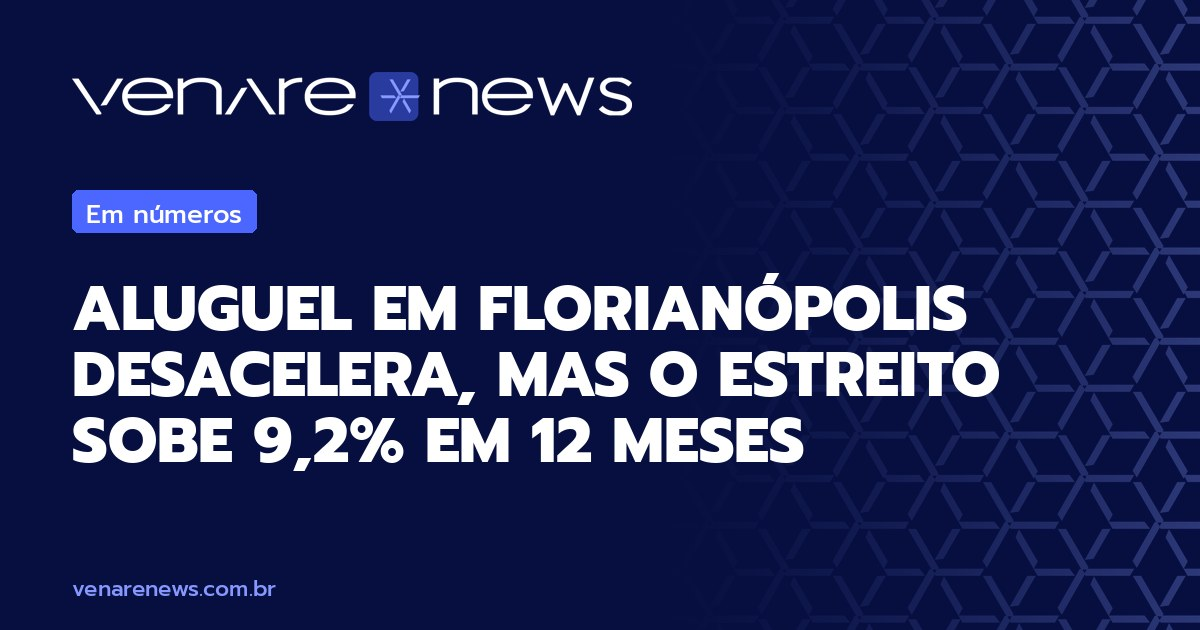
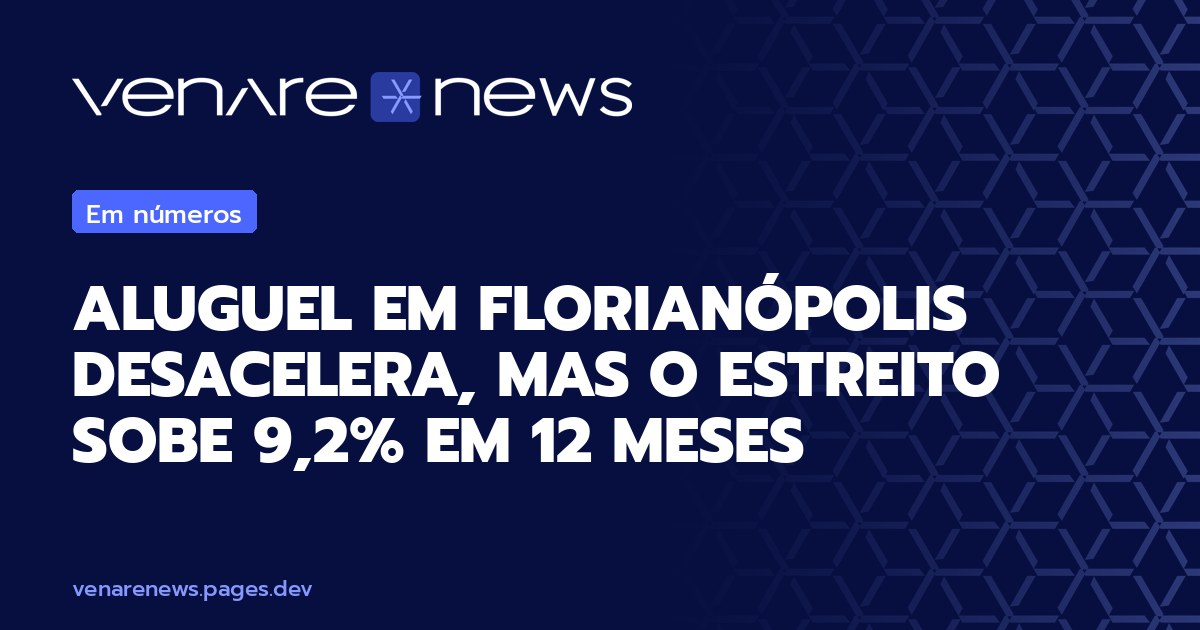
Instagram: compartilhar imagem vertical da notícia nos Stories; visual congelado na rotina
Claude-Session: https://claude.ai/code/session_01WQcFoaB5zTrxxcVsgew9sD

Changed region(s): [[0.0617, 0.1206, 0.5242, 0.181], [0.1542, 0.9048, 0.2775, 0.9651]]

diff --git a/static/app.js b/static/app.js
@@ -80,22 +80,29 @@
       };
       if (destinos[net]) { el.href = destinos[net]; el.target = '_blank'; el.rel = 'noopener'; }
       if (net === 'instagram') {
-        // O Instagram não aceita links de compartilhamento: copia o link e abre o app (ou o site no computador).
-        el.addEventListener('click', async () => {
-          let copiado = false;
-          try { await navigator.clipboard.writeText(url); copiado = true; } catch {}
-          ok.textContent = copiado ? 'Link copiado. Cole nos Stories ou no Direct do Instagram.' : url;
-          const celular = /Android|iPhone|iPad|iPod/i.test(navigator.userAgent);
-          setTimeout(() => {
-            if (celular) {
-              const inicio = Date.now();
-              location.href = 'instagram://story-camera';
-              setTimeout(() => { if (document.visibilityState === 'visible' && Date.now() - inicio < 2500) location.href = 'https://www.instagram.com/'; }, 1500);
-            } else {
-              window.open('https://www.instagram.com/', '_blank', 'noopener');
-            }
-          }, 900);
-          setTimeout(() => { ok.textContent = ''; }, 6000);
+        // Gera o compartilhamento para os Stories: imagem vertical da notícia (1080x1920) pelo menu nativo do celular.
+        const slug = new URL(url).pathname.split('/').filter(Boolean).pop();
+        const storyUrl = slug && /\d{4}/.test(new URL(url).pathname) ? `/story/${slug}.jpg` : null;
+        let arquivo = null;
+        const preparar = () => {
+          if (!storyUrl || arquivo) return;
+          fetch(storyUrl).then((r) => (r.ok ? r.blob() : null)).then((b) => { if (b) arquivo = new File([b], `venare-news-${slug}.jpg`, { type: 'image/jpeg' }); }).catch(() => {});
+        };
+        (window.requestIdleCallback || setTimeout)(preparar, 800);
+        el.addEventListener('pointerenter', preparar);
+        el.addEventListener('touchstart', preparar, { passive: true });
+        el.addEventListener('click', () => {
+          navigator.clipboard && navigator.clipboard.writeText(url).catch(() => {});
+          if (arquivo && navigator.canShare && navigator.canShare({ files: [arquivo] })) {
+            ok.textContent = 'Escolha Instagram e depois Stories. O link já está copiado: cole no adesivo de link.';
+            navigator.share({ files: [arquivo] }).catch(() => {});
+          } else if (storyUrl) {
+            ok.textContent = 'Imagem aberta em nova aba: salve e publique nos Stories. O link já está copiado.';
+            window.open(storyUrl, '_blank', 'noopener');
+          } else {
+            ok.textContent = 'Link copiado. Cole nos Stories ou no Direct do Instagram.';
+          }
+          setTimeout(() => { ok.textContent = ''; }, 7000);
         });
       }
       if (net === 'copy') {

diff --git a/scripts/og.py b/scripts/og.py
@@ -1,4 +1,4 @@
-"""Gera as imagens de compartilhamento (1200x630) de cada publicação em static/og/.
+"""Gera as imagens de compartilhamento: 1200x630 (links) em static/og/ e 1080x1920 (Stories do Instagram) em static/story/.
 Uso: python3 scripts/og.py   (requer Pillow)"""
 import json, glob, os, textwrap
 from PIL import Image, ImageDraw, ImageFont
@@ -9,6 +9,8 @@ tile = Image.open(os.path.join(R, 'scripts/padrao-tile.png')).convert('RGBA')
 tile = tile.resize((150, round(150*tile.height/tile.width)), Image.LANCZOS)
 logo = Image.open(os.path.join(R, 'scripts/venare-news-branco.png')).convert('RGBA')
 logo.thumbnail((560, 60))
+SITE = json.load(open(os.path.join(R, 'site.json'), encoding='utf-8'))
+HOST = SITE['url'].split('//')[1].rstrip('/')
 
 def base():
     im = Image.new('RGBA', (1200, 630), NAVY)
@@ -38,6 +40,66 @@ def wrap(draw, txt, font, maxw):
         else: lines.append(cur); cur = w
     lines.append(cur); return lines
 
+def padrao(W, H, inicio, forca, tam):
+    t = tile.resize((tam, round(tam*tile.height/tile.width)), Image.LANCZOS)
+    layer = Image.new('RGBA', (W, H), (0, 0, 0, 0))
+    for y in range(0, H, t.height):
+        for x in range(W - t.width, -t.width, -t.width):
+            layer.alpha_composite(t, (x, y))
+    mask = Image.new('L', (W, H), 0); px = mask.load()
+    for x in range(W):
+        k = (x - inicio) / (W - inicio)
+        v = 0 if k <= 0 else int(255 * forca * min(1, k) ** 1.3)
+        for y in range(H): px[x, y] = v
+    from PIL import ImageChops
+    layer.putalpha(ImageChops.multiply(layer.split()[3], mask))
+    return layer
+
+def story(p, out):
+    W, H = 1080, 1920
+    im = Image.new('RGBA', (W, H), NAVY)
+    glow = Image.new('RGBA', (W, H), (0, 0, 0, 0)); dg = ImageDraw.Draw(glow)
+    for i in range(60):
+        r = 900 - i * 12; a = int(2 + i * 0.9)
+        dg.ellipse((-r // 2 - 200, H - r // 2 - 100, r // 2 + 200 - 200, H + r // 2 - 100), fill=(76, 103, 255, a))
+    im.alpha_composite(glow)
+    im.alpha_composite(padrao(W, H, 520, 0.22, 200))
+    lg = Image.open(os.path.join(R, 'scripts/venare-news-branco.png')).convert('RGBA'); lg.thumbnail((640, 80))
+    im.alpha_composite(lg, (90, 150))
+    d = ImageDraw.Draw(im)
+    ft = F('Prompt-Medium.ttf', 40); tag = p['formato']
+    tw = d.textlength(tag, font=ft)
+    d.rounded_rectangle((90, 420, 90 + tw + 44, 486), 10, fill=ELET)
+    d.text((112, 426), tag, font=ft, fill='white')
+    size = 96
+    while True:
+        fh = F('Prompt-ExtraBold.ttf', size)
+        lines = wrap(d, p['titulo'].upper(), fh, 900)
+        if len(lines) <= 6 or size <= 60: break
+        size -= 6
+    y = 530
+    for l in lines:
+        d.text((90, y), l, font=fh, fill='white'); y += int(size * 1.08)
+    y += 50
+    v = p.get('visual') or {}
+    if v.get('tipo') == 'numero':
+        fd = F('Prompt-ExtraBold.ttf', 170)
+        d.text((86, y), v['valor'], font=fd, fill=LAV); y += 200
+        for l in wrap(d, v.get('legenda', ''), F('Prompt-Medium.ttf', 40), 900):
+            d.text((90, y), l, font=F('Prompt-Medium.ttf', 40), fill='white'); y += 54
+    else:
+        fr = F('Prompt-Medium.ttf', 44)
+        for l in wrap(d, p['resumo'], fr, 900)[:6]:
+            d.text((90, y), l, font=fr, fill=(255, 255, 255, 230)); y += 62
+    # rodapé com chamada
+    caixa = Image.new('RGBA', (W, H), (0, 0, 0, 0))
+    ImageDraw.Draw(caixa).rounded_rectangle((90, 1600, 990, 1740), 28, fill=(255, 255, 255, 30), outline=(255, 255, 255, 110), width=2)
+    im.alpha_composite(caixa); d = ImageDraw.Draw(im)
+    d.text((130, 1622), 'Leia a notícia completa no', font=F('Prompt-Medium.ttf', 36), fill=LAV)
+    d.text((130, 1670), HOST, font=F('Prompt-ExtraBold.ttf', 44), fill='white')
+    d.text((90, 1790), '@venareinvestimentos', font=F('Prompt-Medium.ttf', 34), fill=LAV)
+    im.convert('RGB').save(out, quality=86)
+
 def card(titulo, tag, destaque, out):
     im = base(); d = ImageDraw.Draw(im)
     ft = F('Prompt-Medium.ttf', 26)
@@ -57,14 +119,17 @@ def card(titulo, tag, destaque, out):
         fd = F('Prompt-ExtraBold.ttf', 96)
         w = d.textlength(destaque, font=fd)
         d.text((1128 - w, 300), destaque, font=fd, fill=LAV)
-    d.text((72, 572), 'venarenews.com.br', font=F('Prompt-Medium.ttf', 22), fill=LAV)
+    d.text((72, 572), HOST, font=F('Prompt-Medium.ttf', 22), fill=LAV)
     im.convert('RGB').save(out, quality=88)
 
 os.makedirs(os.path.join(R, 'static/og'), exist_ok=True)
+os.makedirs(os.path.join(R, 'static/story'), exist_ok=True)
 card('Mercado imobiliário de Santa Catarina para investidores', 'Venare News', None, os.path.join(R, 'static/og/padrao.jpg'))
 for f in glob.glob(os.path.join(R, 'content/edicoes/*.json')):
     ed = json.load(open(f, encoding='utf-8'))
     for p in ed['publicacoes']:
+        st = os.path.join(R, 'static/story', p['slug'] + '.jpg')
+        if not os.path.exists(st): story(p, st)
         out = os.path.join(R, 'static/og', p['slug'] + '.jpg')
         if os.path.exists(out): continue
         v = p.get('visual') or {}

diff --git a/ROTINA.md b/ROTINA.md
@@ -43,7 +43,7 @@ Atualizar `content/indices.json` quando houver dado novo:
 ### 5. Gerar e conferir
 ```
 pip install --break-system-packages pillow   # se faltar
-python3 scripts/og.py     # imagens de compartilhamento
+python3 scripts/og.py     # imagens de compartilhamento (links e Stories)
 node build.mjs            # precisa terminar com "OK"
 ```
 Conferir cada número de cada publicação contra a fonte, um por um.
@@ -75,6 +75,9 @@ git fetch origin revisao && git merge --ff-only origin/revisao && git push origi
 5. Se não houver edição nova na branch `revisao` para hoje, não fazer nada.
 
 ---
+
+## Regra fixa: não mexer no visual
+O visual do site está aprovado e congelado. Todos os dias, mexer SOMENTE no conteúdo: `content/edicoes/*.json` (as 5 publicações) e `content/indices.json` (números). Nunca alterar `build.mjs`, `static/style.css`, `static/app.js`, `static/img/`, `scripts/` (fontes, logo, pattern, og.py), layout, cores, fontes, logo, pattern, cabeçalho, esteira, comparador, rodapé ou botões. Novos textos seguem exatamente os formatos e visuais que já existem.
 
 ## Regras de texto
 - Ao falar do preço do m², nunca usar "caro". Usar "valorizado" (ex.: "m² mais valorizado do país").
